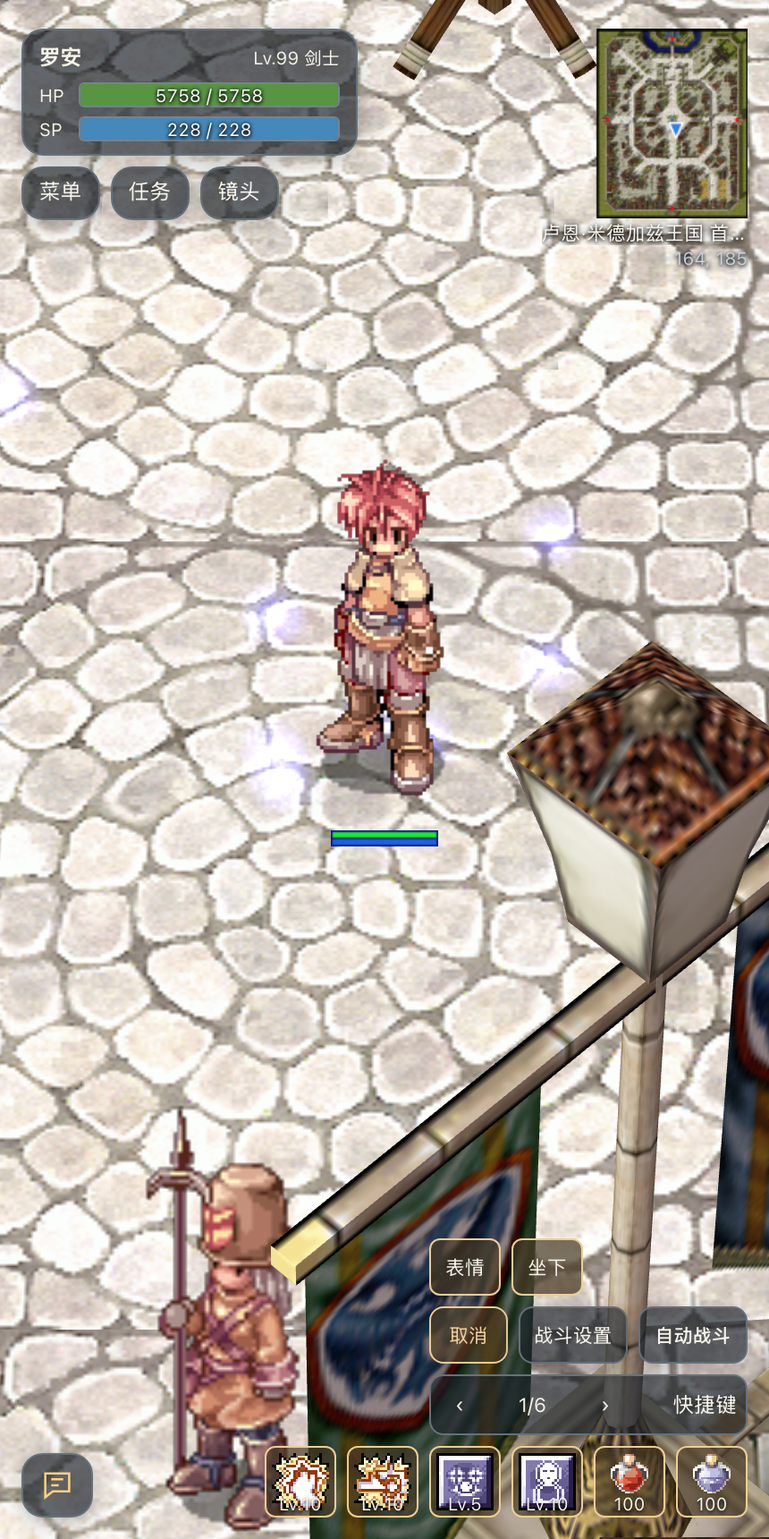
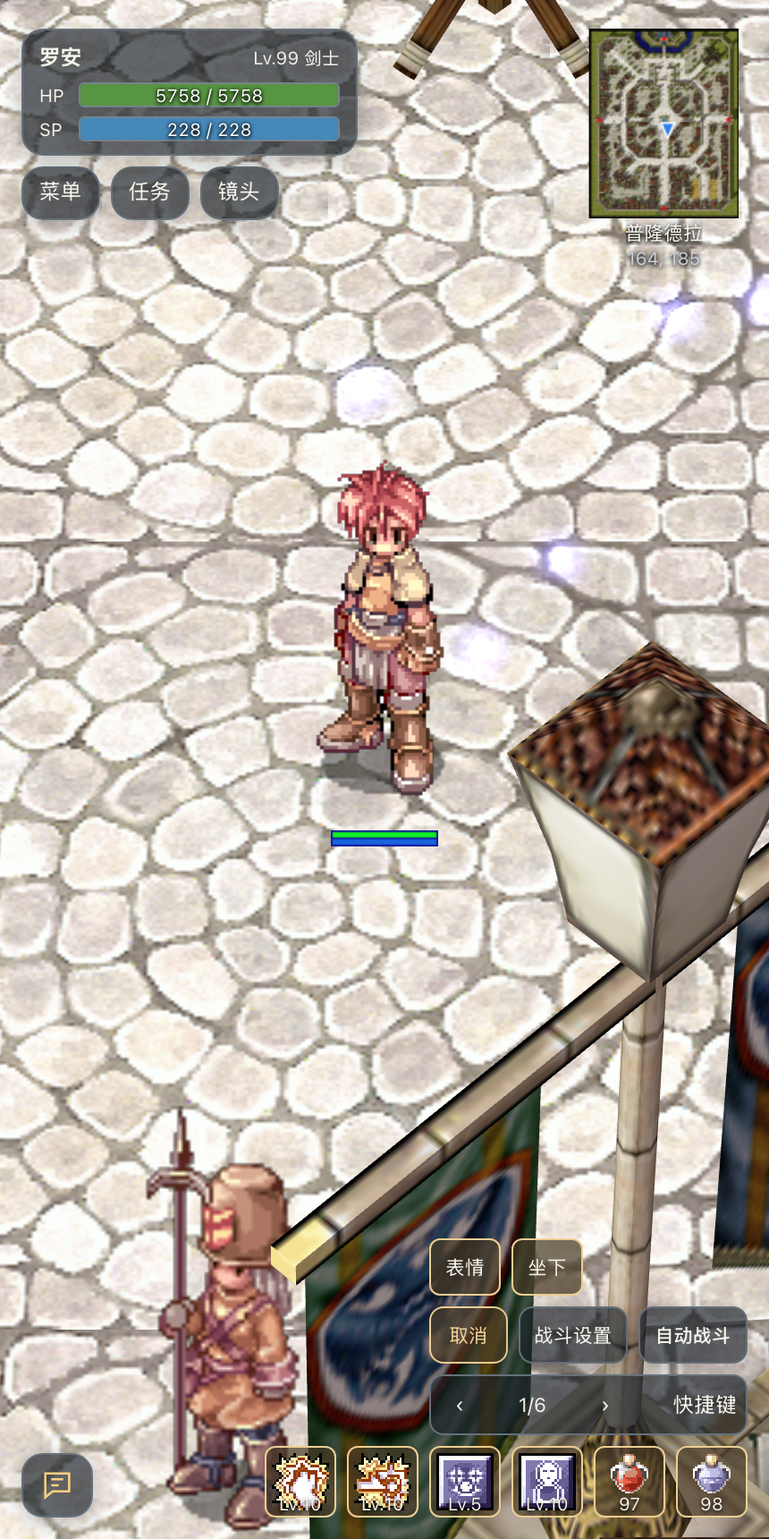
docs(release): Prepare v0.6.0 guides and current screenshots
Original commit messages (chronological):

ac7167128d2df5e7e2ebe8092b355d73f3a1af4d
docs(release): Prepare v0.6.0 guides and current screenshots

diff --git a/docs/.vitepress/config.js b/docs/.vitepress/config.js
@@ -4,7 +4,7 @@ const changelog = [
   {
     text: '版本摘要',
     items: [
-      { text: 'v0.5.1', link: '/changelog/releases/v0.5.1' },
+      { text: 'v0.6.0', link: '/changelog/releases/v0.6.0' },
       { text: 'v0.5.0', link: '/changelog/releases/v0.5.0' },
       { text: 'v0.3.2', link: '/changelog/releases/v0.3.2' },
       { text: 'v0.3.1', link: '/changelog/releases/v0.3.1' },

diff --git a/docs/changelog/releases/v0.6.0.md b/docs/changelog/releases/v0.6.0.md
@@ -1,0 +1,91 @@
+# v0.6.0
+
+本版升级自动战斗，新增自身增益维持与 HP／SP 自动恢复，完善经典初心者流程、地图加载恢复、多端冒险工具和后台账号管理，并集中校准 NPC、魔物与地图名称。以下按当前生产功能与配置说明变化；安装文件、校验摘要和镜像交付信息以[资源下载](https://happyro.kugarocks.com/guide/downloads)为准。
+
+## 经典初心者与修炼场
+
+- 支持 `HAPPYRO_NEW_PLAYER_START=classic|ship`，默认 classic；新建人类角色出生和初始保存点为 `new_1-1,53,107`，杜兰流程独立。已有角色位置不迁移，角色登录及传送入场默认面向正南。
+- 恢复经典教学、职业手册、任务和问卷；修复取消仍传送、更换手册卸掉普通装备、任务登记与清理、奖励容量检查及旧离场交通位置。
+- 审校经典新手及九个一转职业的 NPC 名称、对白、材料和任务说明，修复转职后职业等级显示被外观重建覆盖的问题。
+- 修炼场 20 张平行地图在关闭分流时按四个实际区域展示；补齐 NPC 导航关联，五个出生分流使用木制公告牌。
+- 补齐训练地图、假人外观及对应目录资源；按官方映射识别共享场景，完善小地图与中文名称。
+- 女武神转生对话补充受限初心者装备卸下后出售、携带及出售所得 Zeny 存入银行的说明，明确零负重和零携带 Zeny 等准备要求。
+
+## NPC 名称与任务文字
+
+- 完整复审沉船学院、杜兰出生和后续转职文本，修正任务口令、导航、材料与限时指引；学院忍者教学可直接完成，领奖按实际奖励检查容量，背包满时保留已取得的奖励资格。
+- 审计当前加载的 Renewal 脚本，统一 NPC 头顶名称、对白标题和跨章节译名，同步任务、提示、卡片说明及图鉴导航。保留脚本内部标识，修正显示名参与剧情比较与复制 NPC 固定标题的问题。
+- 独立扫描 RO321 与 DVG 的 NPC 名称，按地图、坐标及形象核验后更新 3,759 个显示名称；保留内部标识，同步对白标题、客户端导航和后台目录，同坐标优先选择可交互 NPC。原文、决策、变更与保留项分别记录。
+- 名称词表收敛为单一来源；有歧义的截断名称等待完整封包，目录不再收录块注释里的 NPC。
+
+## 魔物名称与任务目标
+
+- 按 RO321、DVG 和同 ID 第三方中文来源修正 96 个魔物名称，补齐客户端遗漏的 110 个已有名称；同步服务端备用名、魔物型佣兵、刷怪标签、任务与图鉴。未确认名称、剧情专名及战斗数值保留。
+- 核对魔物导航、公告板和狩猎目标，深入复查两份任务表的 249 条记录、523 个字段；任务进度按 ID 与当前默认封包短名恢复完整中文，保留通用种族／地图条件。
+
+## 地图与资源
+
+- `[client/server]` 地图显示采用城市简称和明确的方位、编号、楼层／模式；地图搜索仅匹配当前显示名称，统一冒险工具、导航、NPC 位置及传送菜单。
+- 地图关键资源加载失败时尝试上次成功位置，再失败返回普隆德拉；30 秒加载超时提供重试和返城。隔离旧加载与迟到图片，安全点仍失败时停止循环。
+- 修复声望图片异步加载产生 undefined 请求，桌面随机加载图限定为当前官方八张资源。
+- 补齐宠物教学小波利共用的 2398 外观缩略图，以及另外 114 种 NPC 外观缩略图，后者覆盖 427 个 NPC 实例；同步 API 目录和客户端图集。这些是目录预览资源，不等同于全部场景模型、贴图和音效都已补齐。
+- 修复女武神大厅等天空地图云层误用地面纹理、出现贴图漂移的问题。
+
+## 自动战斗与恢复
+
+- 战斗设置新增「自动恢复」Tab，桌面、手机和平板共用 HP／SP 独立开关、「低于／恢复至」比例和道具优先顺序；仅使用已选即时恢复道具，支持库存更新、失败退避、冷却及回执超时隔离，恢复与战斗独立调度。默认 HP 低于 50% 恢复至 80%，SP 低于 20% 恢复至 50%，四项均支持环境变量；加减按钮跳至相邻 5% 刻度。恢复道具和排除物品的选择弹窗统一每页 10 项，平板单独优化控件和行距。
+- 技能保持单列表；勾选已支持的七项自身增益后，自动战斗在状态缺失时补充，已有状态跳过。连续补两个增益后让出攻击机会，同技能至少间隔 10 秒；不维护队长或队友状态。选择普通攻击保留增益选择。
+- 拆分技能规则表、纯评分器与施法恢复状态机，资料生成与运行期复用同一份特殊规则，便于独立扩展与测试。
+- 等待技能执行回包后再择技，结合目标、落点和请求生命周期隔离迟到结果；修复链电、属性漩涡及深渊之焰的父子回执关联。明确的施法中断让出执行机会，歧义结果通过有界超时恢复。
+- 增加技能能力、条件和落点模块：支持 34 项审核过的自身范围攻击，接近有效范围后施放；陷阱避开禁放区域和占位。预检可观察的 AP、HP、武器、材料、状态及信仰阶段，服务器继续最终裁决。交互、友方领域、玩家限定和需要专门场地／连招策略的技能保留手动。
+- 减益和陷阱施放后让出攻击，同目标同技能限制频率；连续两次确认执行却未对当前目标造成正伤害时尝试普攻。修正链电属性、漩涡动态属性及五组种族增伤规则；补齐石化术免疫、华丽金属等目标限制，光耀之堂只针对不死或恶魔目标。
+- 自动战斗从已选可用技能中优先选择属性、种族或体型克制技能，排除已知无效目标；同等适用时随机，均不可用时普攻。增加失败技能暂避、无确认超时普攻及长读条保护，避免反复卡在单一技能。
+
+## 桌面与移动端交互
+
+- 手机／平板右下工具栏拆为「动作／取消」「战斗设置」「自动战斗／停止战斗」，直接展开自身动作，取消选择与战斗开关独立，快捷栏分页保持原样。展开动作会停止自动战斗，自身和各类随行动作按钮统一尺寸，并与下方战斗工具栏等高；动作区去掉外框和背景，展开时隐藏战斗提示，收起后恢复。
+- 桌面右下角提供自动战斗、自动拾取和设置常驻按钮，独立启停并显示状态；设置窗口集中维护参数。战斗与拾取开启时使用浅黄色，关闭时灰色且为 70% 不透明度。
+- 桌面冒险工具通过亮色圆角弹窗输入物品数量与 Zeny。两者分别保留草稿，关闭冒险工具后重置为数量 1、Zeny 空值。
+- Zeny 按钮使用「-100万」「-10万」「+10万」「+100万」；空值按 0 参与加减，空值或 0 不能发放，确认期间阻止重复提交。
+- 手机竖屏快捷键筛选固定在列表底部；任务入口移至左上角并默认选中首项；状态在右侧分列显示原始图标，点击在图标旁显示桌面同款说明，不跳转弹窗。
+- 手机和平板默认镜头拉近；自动战斗默认开启无目标随机瞬移，无目标等待和最短瞬移间隔均为 2 秒。
+- 修复目标消失引起的空引用和封包回调异常导致的后续消息丢失，自动战斗可继续寻找目标。
+- 状态图标共用桌面倒计时遮罩和彩色说明；手机竖屏按实际可用高度换列，横屏在角色信息右侧换行，说明显示在下方。统一小地图与操作区右侧间距，修正拾取提示避让。
+- 任务和状态详情统一标题样式；状态详情显示剩余时间，列表按即将到期优先排序。
+- 自动战斗攻击目标展示当前地图全部配置魔物，以两列排列，不依赖周围可见魔物。
+- 冒险工具地图预览下方增加魔物表格，提供详情链接、等级、HP、属性与基础／职业经验，缺失数值显示“-”。地图区域滚动外层，NPC 列表滚到边缘后交给外层；有魔物时提供「地图魔物 ↓」入口。平板竖屏单独优化高度，NPC 标题移除数量，魔物名称对齐表头。物品图鉴掉落表格各字段统一左对齐。
+- 桌面常驻表情、坐下／站起和骑乘／下骑入口；移动端从「动作」展开，所有端均取消点击自身角色打开动作的交互。骑乘条件不足使用会消失的 toast；手机、平板和桌面的提示位置分别适配，平板状态图标调整为 40px。
+- 移动端登录、选服及角色选择提示复用注册弹窗的亮色样式，游戏内保持暗色。死亡时提供返回保存点和符合条件时的道具复活，等待救援后可从战斗信息重新打开。
+
+## 转职与装备同步
+
+- 转职、技能授予／移除及装备脚本改变双持权限后，重新验证并同步装备部位，无需重新登录；非法普通／影子左手装备及切换配置会清理，合法盾牌、右手和现行 GM 权限保留。
+- 转职在移除临时资格、更新技能树和骑乘等状态后校验穿戴与切换配置，再存档。完整背包和切换快照替换旧模型，预览不污染实际穿戴，过期图片回调不能恢复旧标记。
+
+## 后台账号与设置
+
+- 头像菜单支持自助修改后台密码；唯一部署开关 `ADMIN_PASSWORD_CHANGE_ENABLED` 默认 `true`，演示环境设为 `false` 可隐藏入口并拒绝改密，后台不能覆盖。改密验证当前密码、限制尝试频率、记录审计并使旧会话失效，CLI 维护不受限制。
+- 账号可设为游戏管理员 GM（99）或普通玩家（0），使用独立 `players.gm` 权限。设置作用于全账号，完整退出游戏并重新登录后生效，不改变后台管理员身份。
+- GM 保存校验旧权限组、服务器账号与删除状态，并记录审计；管理库迁移为 administrator 添加对应权限。
+- 用户账号通过带编辑图标的「操作」菜单管理，敏感操作分隔，批量入口显示选中数量。GM 弹窗显示账号摘要、身份选项和重登提示。
+- 游戏角色保留直接打开「角色属性」的六个 Tab 弹窗，便于连续调整；按钮使用统一描边和编辑图标。
+- 游戏设置页移除底部嵌入的历史列表，从页头、保存提示或独立菜单进入修改记录。
+- 游戏设置只提交实际改动项，保留其他管理员对无关字段的更新；未改动时不发布，保存及回读期间暂时锁定编辑。
+
+## 配置与维护
+
+- 客户端默认设置由 schema 统一定义，Gateway 动态提供运行配置；已保存的个人设置优先。脚本文字最低对比度可配置，默认 4.5。
+- 增加地图视野、行走上限、导航、召怪和工具权限环境变量；默认视野为 18。非空环境覆盖项不能在后台保存，冲突时整批拒绝。
+- 数据库存储与 API 输出统一时间语义，API 使用带时区时间；显示时区通过 `APP_TIMEZONE` 配置，默认 Asia/Shanghai，不转换既有历史数据。
+- `ADMIN_CSRF_ORIGIN_CHECK_ENABLED` 默认 false，关闭后台 Origin 与 Sec-Fetch-Site 来源限制，仍强制校验会话 CSRF Token；设为 true 后实际来源必须匹配 APP_URL。
+- 离线资源复制、清单和最终 ZIP 过滤任意层级的 `._*` 与 `.DS_Store`，保留业务文件和原始资源；历史包不回写。
+
+## 验证范围
+
+经典主线、九职业转职与重登、训练场入口、地图故障恢复及部分移动视口交互已有本机真实服务验证。后台 GM、权限边界、来源校验和交互完成相应自动化及浏览器验证；数据库集成检查使用隔离实例。
+
+本次转职装备修复完成自动化检查，服务端变更需重新构建部署并重启后生效；未将代码测试视为真实角色验收。后台改密已完成隔离数据库及浏览器验证。自动战斗技能修复完成 2,167 项客户端测试，以及挑衅、怒爆、信仰前置、留言陷阱排除、链电、火箭和冰箭的本机真实回包验证；完整逐技能实机覆盖、复杂连招及全部四转增益不在此次验证范围。
+
+浏览器移动视口不代表真实手机／平板验收；历史构建和本机源码测试不代表新离线包已完成双架构、升级回退、HTTPS 或真机全流程验收。职业外观、技能、随行功能的具体缺口继续按各专题维护。服务端托管自动战斗和离线挂机仍是设计议题，不列入本版功能。
+
+完整变更见 [10 月 24 日](../2026/10/2026-10-24.md)和 [10 月 25 日](../2026/10/2026-10-25.md)日期日志，部署流程见[发布手册](https://github.com/happyro/happyro/blob/main/docs/operations/docker-release.md)。

diff --git a/docs/changelog/releases/v0.5.1.md b/docs/changelog/releases/v0.5.1.md
@@ -1,90 +1,15 @@
-# v0.5.1
+---
+layout: page
+sidebar: false
+search: false
+aside: false
+head:
+  - - meta
+    - name: robots
+      content: noindex
+  - - link
+    - rel: canonical
+      href: https://happyro.kugarocks.com/changelog/releases/v0.6.0
+---
 
-本版完善经典初心者流程、地图加载恢复、桌面冒险工具和后台账号管理，并统一部署默认值、时间显示及离线包资源清理。以下按当前生产功能与配置说明变化；安装文件、校验摘要和镜像交付信息以[资源下载](https://happyro.kugarocks.com/guide/downloads)为准。
-
-## 经典初心者与修炼场
-
-- 支持 `HAPPYRO_NEW_PLAYER_START=classic|ship`，默认 classic；新建人类角色出生和初始保存点为 `new_1-1,53,107`，杜兰流程独立。已有角色位置不迁移，角色登录及传送入场默认面向正南。
-- 恢复经典教学、职业手册、任务和问卷；修复取消仍传送、更换手册卸掉普通装备、任务登记与清理、奖励容量检查及旧离场交通位置。
-- 审校经典新手及九个一转职业的 NPC 名称、对白、材料和任务说明，修复转职后职业等级显示被外观重建覆盖的问题。
-- 修炼场 20 张平行地图在关闭分流时按四个实际区域展示；补齐 NPC 导航关联，五个出生分流使用木制公告牌。
-- 补齐训练地图、假人外观及对应目录资源；按官方映射识别共享场景，完善小地图与中文名称。
-- 女武神转生对话补充受限初心者装备卸下后出售、携带及出售所得 Zeny 存入银行的说明，明确零负重和零携带 Zeny 等准备要求。
-
-## NPC 名称与任务文字
-
-- 完整复审沉船学院、杜兰出生和后续转职文本，修正任务口令、导航、材料与限时指引；学院忍者教学可直接完成，领奖按实际奖励检查容量，背包满时保留已取得的奖励资格。
-- 审计当前加载的 Renewal 脚本，统一 NPC 头顶名称、对白标题和跨章节译名，同步任务、提示、卡片说明及图鉴导航。保留脚本内部标识，修正显示名参与剧情比较与复制 NPC 固定标题的问题。
-- 独立扫描 RO321 与 DVG 的 NPC 名称，按地图、坐标及形象核验后更新 3,759 个显示名称；保留内部标识，同步对白标题、客户端导航和后台目录，同坐标优先选择可交互 NPC。原文、决策、变更与保留项分别记录。
-- 名称词表收敛为单一来源；有歧义的截断名称等待完整封包，目录不再收录块注释里的 NPC。
-
-## 魔物名称与任务目标
-
-- 按 RO321、DVG 和同 ID 第三方中文来源修正 96 个魔物名称，补齐客户端遗漏的 110 个已有名称；同步服务端备用名、魔物型佣兵、刷怪标签、任务与图鉴。未确认名称、剧情专名及战斗数值保留。
-- 核对魔物导航、公告板和狩猎目标，深入复查两份任务表的 249 条记录、523 个字段；任务进度按 ID 与当前默认封包短名恢复完整中文，保留通用种族／地图条件。
-
-## 地图与资源
-
-- `[client/server]` 地图显示采用城市简称和明确的方位、编号、楼层／模式；地图搜索仅匹配当前显示名称，统一冒险工具、导航、NPC 位置及传送菜单。
-- 地图关键资源加载失败时尝试上次成功位置，再失败返回普隆德拉；30 秒加载超时提供重试和返城。隔离旧加载与迟到图片，安全点仍失败时停止循环。
-- 修复声望图片异步加载产生 undefined 请求，桌面随机加载图限定为当前官方八张资源。
-- 补齐宠物教学小波利共用的 2398 外观缩略图，以及另外 114 种 NPC 外观缩略图，后者覆盖 427 个 NPC 实例；同步 API 目录和客户端图集。这些是目录预览资源，不等同于全部场景模型、贴图和音效都已补齐。
-- 修复女武神大厅等天空地图云层误用地面纹理、出现贴图漂移的问题。
-
-## 自动战斗与恢复
-
-- 战斗设置新增「自动恢复」Tab，桌面、手机和平板共用 HP／SP 独立开关、触发比例、恢复目标和药品优先顺序；仅使用已选即时恢复药品，支持库存更新、失败退避、冷却及回执超时隔离，恢复与战斗独立调度。
-
-- 拆分技能规则表、纯评分器与施法恢复状态机，资料生成与运行期复用同一份特殊规则，便于独立扩展与测试。
-- 等待技能执行回包后再择技，避免读条结束时重复请求；施法中断立即让出，并补齐石化术状态免疫及华丽金属目标限制；控制／防御技能不再误用伤害属性倍率，光耀之堂只针对不死或恶魔目标，避免治疗敌人。
-
-- 自动战斗从已选可用技能中优先选择属性、种族或体型克制技能，排除已知无效目标；同等适用时随机，均不可用时普攻。增加失败技能暂避、无确认超时普攻及长读条保护，避免反复卡在单一技能。
-
-## 桌面与移动端交互
-
-- 手机／平板右下工具栏拆为「动作／取消」「战斗设置」「自动战斗／停止战斗」，直接展开自身动作，取消选择与战斗开关独立，快捷栏分页保持原样。展开动作会停止自动战斗，自身和各类随行动作按钮统一尺寸，并与下方战斗工具栏等高；动作区去掉外框和背景，展开时隐藏战斗提示，收起后恢复。
-- 桌面右下角提供自动战斗、自动拾取和设置常驻按钮，独立启停并显示状态；设置窗口集中维护参数。战斗与拾取开启时使用浅黄色，关闭时灰色且为 70% 不透明度。
-- 桌面冒险工具通过亮色圆角弹窗输入物品数量与 Zeny。两者分别保留草稿，关闭冒险工具后重置为数量 1、Zeny 空值。
-- Zeny 按钮使用「-100万」「-10万」「+10万」「+100万」；空值按 0 参与加减，空值或 0 不能发放，确认期间阻止重复提交。
-- 手机竖屏快捷键筛选固定在列表底部；任务入口移至左上角并默认选中首项；状态在右侧分列显示原始图标，点击在图标旁显示桌面同款说明，不跳转弹窗。
-- 手机和平板默认镜头拉近；自动战斗默认开启无目标随机瞬移，无目标等待和最短瞬移间隔均为 2 秒。
-- 修复目标消失引起的空引用和封包回调异常导致的后续消息丢失，自动战斗可继续寻找目标。
-- 状态图标共用桌面倒计时遮罩和彩色说明；手机竖屏按实际可用高度换列，横屏在角色信息右侧换行，说明显示在下方。统一小地图与操作区右侧间距，修正拾取提示避让。
-- 任务和状态详情统一标题样式；状态详情显示剩余时间，列表按即将到期优先排序。
-- 自动战斗攻击目标展示当前地图全部配置魔物，以两列排列，不依赖周围可见魔物。
-- 冒险工具地图预览下方增加魔物表格，提供详情链接、等级、HP、属性与基础／职业经验；保留地图高度，各端无表内滚动条，缺失数值显示“-”。物品图鉴掉落表格各字段统一左对齐。
-- 桌面常驻表情、坐下／站起和骑乘／下骑入口；移动端点击自己角色后显示操作，未增加常驻按钮。技能不足时提示对应职业所需技能名称和等级。
-- 移动端登录、选服及角色选择提示复用注册弹窗的亮色样式，游戏内保持暗色。死亡时提供返回保存点和符合条件时的道具复活，等待救援后可从战斗信息重新打开。
-
-## 转职与装备同步
-
-- 转职、技能授予／移除及装备脚本改变双持权限后，重新验证并同步装备部位，无需重新登录；非法普通／影子左手装备及切换配置会清理，合法盾牌、右手和现行 GM 权限保留。
-- 转职在移除临时资格、更新技能树和骑乘等状态后校验穿戴与切换配置，再存档。完整背包和切换快照替换旧模型，预览不污染实际穿戴，过期图片回调不能恢复旧标记。
-
-## 后台账号与设置
-
-- 头像菜单支持自助修改后台密码；唯一部署开关 `ADMIN_PASSWORD_CHANGE_ENABLED` 默认 `true`，演示环境设为 `false` 可隐藏入口并拒绝改密，后台不能覆盖。改密验证当前密码、限制尝试频率、记录审计并使旧会话失效，CLI 维护不受限制。
-- 账号可设为游戏管理员 GM（99）或普通玩家（0），使用独立 `players.gm` 权限。设置作用于全账号，完整退出游戏并重新登录后生效，不改变后台管理员身份。
-- GM 保存校验旧权限组、服务器账号与删除状态，并记录审计；管理库迁移为 administrator 添加对应权限。
-- 用户账号通过带编辑图标的「操作」菜单管理，敏感操作分隔，批量入口显示选中数量。GM 弹窗显示账号摘要、身份选项和重登提示。
-- 游戏角色保留直接打开「角色属性」的六个 Tab 弹窗，便于连续调整；按钮使用统一描边和编辑图标。
-- 游戏设置页移除底部嵌入的历史列表，从页头、保存提示或独立菜单进入修改记录。
-- 游戏设置只提交实际改动项，保留其他管理员对无关字段的更新；未改动时不发布，保存及回读期间暂时锁定编辑。
-
-## 配置与维护
-
-- 客户端默认设置由 schema 统一定义，Gateway 动态提供运行配置；已保存的个人设置优先。脚本文字最低对比度可配置，默认 4.5。
-- 增加地图视野、行走上限、导航、召怪和工具权限环境变量；默认视野为 18。非空环境覆盖项不能在后台保存，冲突时整批拒绝。
-- 数据库存储与 API 输出统一时间语义，API 使用带时区时间；显示时区通过 `APP_TIMEZONE` 配置，默认 Asia/Shanghai，不转换既有历史数据。
-- `ADMIN_CSRF_ORIGIN_CHECK_ENABLED` 默认 false，关闭后台 Origin 与 Sec-Fetch-Site 来源限制，仍强制校验会话 CSRF Token；设为 true 后实际来源必须匹配 APP_URL。
-- 离线资源复制、清单和最终 ZIP 过滤任意层级的 `._*` 与 `.DS_Store`，保留业务文件和原始资源；历史包不回写。
-
-## 验证范围
-
-经典主线、九职业转职与重登、训练场入口、地图故障恢复及部分移动视口交互已有本机真实服务验证。后台 GM、权限边界、来源校验和交互完成相应自动化及浏览器验证；数据库集成检查使用隔离实例。
-
-本次转职装备修复完成自动化检查，服务端变更需重新构建部署并重启后生效；未将代码测试视为真实角色验收。后台改密已完成隔离数据库及浏览器验证。
-
-浏览器移动视口不代表真实手机／平板验收；历史构建和本机源码测试不代表新离线包已完成双架构、升级回退、HTTPS 或真机全流程验收。职业外观、技能、随行功能的具体缺口继续按各专题维护。服务端托管自动战斗和离线挂机仍是设计议题，不列入本版功能。
-
-完整变更见 [10 月 24 日](../2026/10/2026-10-24.md)和 [10 月 25 日](../2026/10/2026-10-25.md)日期日志，部署流程见[发布手册](https://github.com/happyro/happyro/blob/main/docs/operations/docker-release.md)。
+<LegacyRedirect from="/changelog/releases/v0.5.1" />

diff --git a/docs/changelog/2026/10/2026-10-25.md b/docs/changelog/2026/10/2026-10-25.md
@@ -9,6 +9,7 @@
 
 ## 修复
 
+- `[client]` 修复自动战斗技能用途与调度：排除交互、友方领域及玩家限定技能；减益／陷阱施放后让出攻击，连续两次成功却无伤害时兜底普攻；支持已审核自身范围攻击、陷阱空位选点、AP／状态／装备／弹药／材料预检，补齐父子回执、迟到回包隔离及克制评分。
 - `[client]` 放大平板排除物品与恢复道具选择弹窗的图标、勾选框和列表行距，手机与桌面尺寸不变；恢复道具列表删除“（已选择）”，保留勾选状态；所有端两个弹窗统一每页 10 个物品。
 - `[client]` 平板自动恢复统一宽松字号与组件间距，± 按钮使用 44px 等宽触控区域并居中，保持手机与桌面布局不变。
 - `[root/client/server/admin/api]` 统一地图城市简称、南门等地标、野外编号及楼层／模式名称，同步导航、世界地图和 NPC 位置；艾尔帕兰露依纳显示为“艾尔帕兰 露依纳”，地图搜索仅匹配当前显示名称，玩家列表排除 new_event、pprontera。
@@ -18,7 +19,7 @@
 - `[client]` 小地图名称与坐标跟随实际地图图片中心对齐，平板状态图标调整为 40px；战斗状态支持点击查看全文，移除追加目标说明与无魔物提示，动作区展开时收起状态详情。
 - `[client]` 桌面、手机和平板 toast 下移以避开角色；骑乘／下骑条件不足、状态变化和失败提示使用自动消失的 toast，离开或销毁操作栏时清理提示。
 - `[client]` 将自动战斗拆分为可扩展技能规则表、纯评分器与独立施法恢复状态机；资料生成与运行期共享特殊规则，补充规则扩展及状态隔离测试。
-- `[client]` 自动战斗等待本次技能执行回包后再择技，避免读条结束与伤害回包之间重复请求；施法被打断时立即让出，并补齐石化术状态免疫及华丽金属目标限制；控制／防御技能不再误用伤害属性倍率，光耀之堂只针对不死或恶魔目标，避免治疗敌人。
+- `[client]` 自动战斗等待本次技能执行回包后再择技，避免读条结束与伤害回包之间重复请求；明确的施法中断让出执行机会，歧义回包通过有界超时恢复，并补齐石化术状态免疫及华丽金属目标限制；已准入的减益技能不误用伤害属性倍率，光耀之堂只针对不死或恶魔目标，避免治疗敌人。
 - `[root/server/admin/api]` 二次审查地图名称，补齐后台 340 个魔物刷新地图名与 8 个角色地图标签；补齐公告板标题、任务导航及地名旧别名，保持地图 ID、坐标、NPC 标识与物品名称不变，并增加后台映射一致性检查。
 - `[root/client/server/api]` 三次复查补齐科摩多、天津、艾因布洛克等 12 组地图别名及公告板标题；传送菜单按真实目的地统一 44 个城镇选项，补齐地图副标题与说明引用，新增目的地名称检查。
 - `[root/client/server/api]` 四次复查按目标地图统一地下城明确选项，保留同名地图的区域／楼层区别及副本入口用途；补齐混合编码脚本中遗漏的地名，保留原始非 UTF-8 字节，并同步修格尔、卢迪、尼弗海姆等旧名引用。
@@ -49,3 +50,7 @@
 - `[root/client/server/api]` 深入复查魔物名称引用：补正 8 个有同 ID 台服来源的变体名称、17 个魔物型佣兵名称、71 处刷怪标签及 26～55 级公告板菜单／对白；按真实任务目标修正两份任务表共 249 条记录的 523 个名称字段，覆盖对应冷却任务；任务追踪按当前默认封包短名恢复完整中文，保留剧情称呼与通用筛选目标。
 - `[client]` 移动端战斗工具栏增加「动作／取消」入口，保留完整「战斗设置」文案，将取消选择与自动战斗开关分离；直接展开表情、坐下和骑乘操作，保持快捷键分页和考试攻击行为；展开自身动作时停止自动战斗，自身、宠物、玩家、佣兵及生命体动作按钮统一尺寸，并与下方战斗工具栏等高（紧凑 32px、宽松 44px）；动作区移除外层边框与背景；展开动作时隐藏战斗提示，取消后恢复。
 - `[client]` 删除桌面与移动端战斗辅助中的规则说明文案，包含战斗范围、克制技能、自动瞬移及自动拾取说明；保留设置项、空状态与错误反馈。
+
+## 部署与维护
+
+- `[root]` 将本轮离线包构建目标统一为 v0.6.0，同步功能摘要与文档入口；保留 v0.5.0 实际交付记录，v0.5.1 旧文档地址仅跳转到新摘要。日志同步器允许登记且目标有效的纯跳转页，继续拒绝重复正文和无来源页面。

diff --git a/docs/game/controls.md b/docs/game/controls.md
@@ -41,7 +41,7 @@
 
 角色死亡时会弹出返回保存点的操作；持有原地复活之证且地图允许时，可确认消耗道具复活。选择等待救援后，可从右下角战斗信息的「返回 / 复活」按钮重新打开。
 
-登录、选服及角色选择阶段的提示、错误和确认弹窗使用与注册弹窗一致的亮色样式；进入游戏后使用暗色弹窗。移动端常驻一排「动作／取消」「战斗设置」「自动战斗／停止战斗」，下方保留快捷栏分页和「快捷键」。点击自己的角色也可显示自身动作。自身、宠物及其他角色动作独立显示；展开时隐藏战斗提示，取消后恢复，不带外层边框和背景，按钮与下方战斗工具栏等高。展开动作会结束正在运行的自动战斗，避免战斗自动选怪把动作菜单收起；使用后需要手动重新开启自动战斗。
+登录、选服及角色选择阶段的提示、错误和确认弹窗使用与注册弹窗一致的亮色样式；进入游戏后使用暗色弹窗。移动端常驻一排「动作／取消」「战斗设置」「自动战斗／停止战斗」，下方保留快捷栏分页和「快捷键」。点击自己的角色不展开动作菜单；使用「动作」按钮。自身、宠物及其他角色动作独立显示；展开时隐藏战斗提示，取消后恢复，不带外层边框和背景，按钮与下方战斗工具栏等高。展开动作会结束正在运行的自动战斗，避免战斗自动选怪把动作菜单收起；使用后需要手动重新开启自动战斗。
 
 <figure class="guide-device-figure">
   <img src="/images/game/controls/phone-actions.png" alt="罗安展开手机角色动作，左侧按钮变为取消，战斗设置与自动战斗入口保持独立" width="860" height="1720" loading="lazy">

diff --git a/docs/strategy/job-change/common.md b/docs/strategy/job-change/common.md
@@ -104,7 +104,7 @@ outline: [2, 3]
 普通二转 → 高阶初心者 → 高阶一转 → 进阶二转，然后再进入各线三转。
 
 1. 普通二转达到 **Base 99 / Job 50**，用完技能点，准备 **1,285,000 Zeny**。
-2. 到 `yuno_in02 88,164` 找图书馆的 梅修斯·西尔芙 捐赠，再阅读 `yuno_in02 93,207` 的伊米尔之书。
+2. 到 `yuno_in02 88,164` 找图书馆的 玫泰武司 西芙 捐赠，再阅读 `yuno_in02 93,207` 的伊米尔之书。
 3. 到 `yuno_in05 49,43` 找伊米尔之心，经 NPC 进入英灵殿。
 4. 在与女武神对话前将**负重与剩余 Zeny 清零**，解除手推车、骑乘和猎鹰；有价值的物品先存仓。部分初心者装备无法丢弃或存仓，可先卸下再卖给 NPC 商店；携带的 Zeny 和出售所得可存入银行。
 5. 找 `valkyrie 48,86` 女武神完成转生，成为 Base 1 / Job 1 的高阶初心者，技能重置并领取重生礼物。
@@ -199,4 +199,4 @@ outline: [2, 3]
 
 ## 记录来源
 
-原始[转职流程与验证范围](https://github.com/happyro/happyro/blob/main/docs/development/job-change-review/README.md)保留详细证据。本组攻略讲玩家操作；测试账号、工具和临时属性不写入步骤。本轮名称与指引修正见 [v0.5.1 版本说明](/changelog/releases/v0.5.1)。
+原始[转职流程与验证范围](https://github.com/happyro/happyro/blob/main/docs/development/job-change-review/README.md)保留详细证据。本组攻略讲玩家操作；测试账号、工具和临时属性不写入步骤。本轮名称与指引修正见 [v0.6.0 版本说明](/changelog/releases/v0.6.0)。

diff --git a/docs/game/adventure-tools.md b/docs/game/adventure-tools.md
@@ -10,7 +10,9 @@
 
 ![罗安在平板上查看普隆德拉地图与 NPC 列表](/images/game/adventure/tablet-adventure-map.png)
 
-平板分栏展示地图列表、地图预览与 NPC 列表；平板竖屏的 NPC 列表省略坐标，为地图预览保留更多空间。
+平板分栏展示地图列表、地图预览与 NPC 列表；平板竖屏缩小预览高度并省略 NPC 坐标，为下方魔物区域保留空间，横屏布局独立。地图搜索仅匹配当前显示名称，例如「普隆德拉」「普隆德拉南门」「艾尔帕兰 露依纳」，不按地图代码、旧全称或别名搜索。地图代码仍可在条目和详情中查看。
+
+在地图预览上滚动会滚动外层详情；NPC 列表先内部滚动，到顶或到底后继续滚动外层。有刷新记录的地图显示「地图魔物 ↓」，点击直接定位到魔物区域；没有记录时入口置灰。`new_event`、`pprontera` 没有配置玩家入口，不列入玩家地图列表，后台资料查询仍可保留这些资源。
 
 ## 魔物图鉴
 

diff --git a/README.md b/README.md
@@ -48,7 +48,7 @@ npm run docs:build
 
 仅重拍画面中可见且已变化的界面；被菜单或设备框遮挡、已裁掉的区域不触发重拍。首图可保留有可验证来源的未变化端原图，仅替换受影响的手机／平板输入再合成。
 
-图片按用途放入 `overview/`、`game/controls/`、`game/social/`、`game/adventure/`、`game/trading/`、`game/mail/` 和 `strategy/job-change/`。旧图只有仍被正文引用时才保留；更新截图时同时检查界面文案与教程步骤。
+图片按用途放入 `overview/`、`game/controls/`、`game/combat/`、`game/social/`、`game/adventure/`、`game/trading/`、`game/mail/` 和 `strategy/job-change/`。旧图只有仍被正文引用时才保留；更新截图时同时检查界面文案与教程步骤。
 
 ## 攻略维护
 

diff --git a/docs/guide/downloads.md b/docs/guide/downloads.md
@@ -1,6 +1,6 @@
 # 资源下载
 
-当前主分支功能见 [v0.5.1 版本摘要](/changelog/releases/v0.5.1)。下列下载文件与镜像属于 v0.5.0 的交付记录，保持原版本、链接和摘要；功能文档更新不会改变既有安装包内容。
+当前主分支功能见 [v0.6.0 版本摘要](/changelog/releases/v0.6.0)。下列下载文件与镜像属于 v0.5.0 的交付记录，保持原版本、链接和摘要；功能文档更新不会改变既有安装包内容。
 
 后续交付使用当前构建流程中的 Gateway、Server、API（含 Admin 前端）与 Database 四组镜像，版本由包内配置决定，不套用下方历史 Admin 镜像名称。
 

diff --git a/docs/guide/introduction.md b/docs/guide/introduction.md
@@ -34,4 +34,4 @@ HappyRO 是一个基于 [roBrowserLegacy](https://github.com/MrAntares/roBrowser
 | 服务端模式 | Renewal |
 | Node.js | 22 或更高版本 |
 | MariaDB | 10.11 |
-| 功能与交付 | 当前功能见 [v0.5.1](/changelog/releases/v0.5.1)；离线包与镜像的实际交付记录见[资源下载](/guide/downloads) |
+| 功能与交付 | 当前功能见 [v0.6.0](/changelog/releases/v0.6.0)；离线包与镜像的实际交付记录见[资源下载](/guide/downloads) |

diff --git a/docs/guide/quick-start.md b/docs/guide/quick-start.md
@@ -13,7 +13,7 @@
 
 ## 更新记录
 
-产品功能变化见[更新日志](/changelog/releases/v0.5.1)，安装包下载和摘要见[资源下载](/guide/downloads)。运行配置统一查阅[环境变量参考](/deploy/environment-variables)。
+产品功能变化见[更新日志](/changelog/releases/v0.6.0)，安装包下载和摘要见[资源下载](/guide/downloads)。运行配置统一查阅[环境变量参考](/deploy/environment-variables)。
 
 ## 认识项目
 
